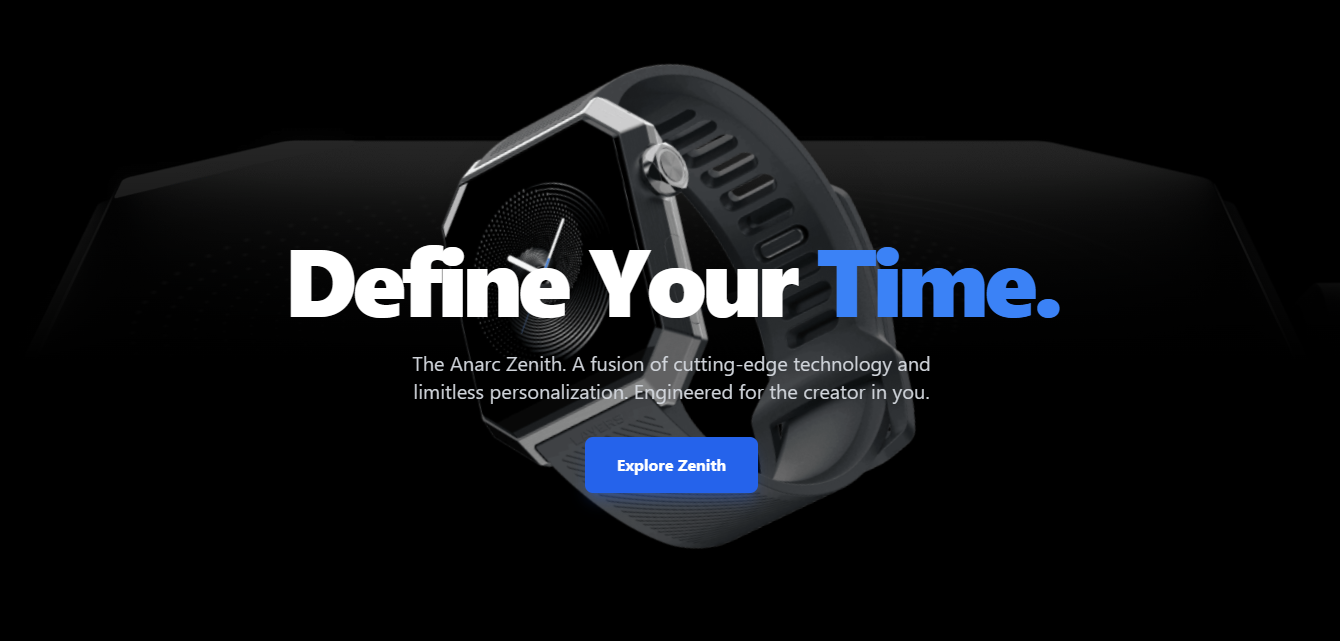
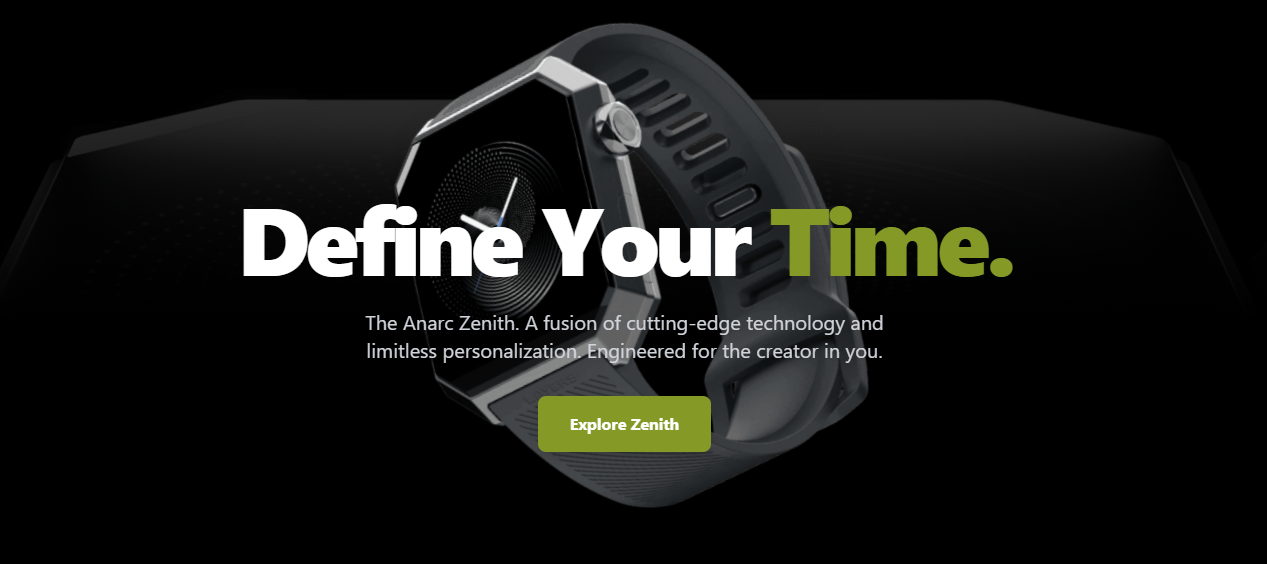
ss

Changed region(s): [[0.0308, 0.0301, 0.8927, 0.9043]]

diff --git a/README.md b/README.md
@@ -1,11 +1,7 @@
 
 # 🛍 Layers - A Modern E-Commerce Experience
 
-✨ **Submission for the Sheryians Coding School Hackathon (Phase 1)** ✨
-
-**Layers** is a modern, dynamic, and fully responsive e-commerce concept website built for an Indian startup brand. Inspired by the creative energy of **Tech Burner**, this project merges aesthetic appeal with seamless functionality, delivering an immersive user experience with smo
-
-oth animations, component-based structure, and full responsiveness.
+**Layers** is a modern, dynamic, and fully responsive e-commerce concept website built for an Indian startup brand. Inspired by the creative energy of **Tech Burner**, this project merges aesthetic appeal with seamless functionality, delivering an immersive user experience with smooth animations, component-based structure, and full responsiveness.
 
 <p align="center">
   <img src="https://img.shields.io/badge/React-20232A?style=for-the-badge&logo=react&logoColor=61DAFB" alt="React Badge"/>
@@ -17,7 +13,7 @@ oth animations, component-based structure, and full responsiveness.
 
 ## 🔗 Live & Demo Links
 
-- 🚀 **Live Website**: [layers-Reimagined](https://layers-reimagined-hackathon-sheryians.netlify.app/)  
+- 🚀 **Live Website**: [layers-Reimagined](https://anarc-watch-kappa.vercel.app/)  
 
 
 ---
@@ -25,7 +21,7 @@ oth animations, component-based structure, and full responsiveness.
 ## 🖼 Project Preview
 
 <p align="center">
-  <img src="https://github.com/Ravishetty07/Layers-Reimagined-Hackaton-Sheryians/blob/main/public/preview.png" alt="Project Preview" width="100%"/>
+  <img src="https://github.com/darksitecoder/anarc-watch/blob/master/public/preview.png" alt="Project Preview" width="100%"/>
 </p>
 
 
@@ -76,7 +72,7 @@ oth animations, component-based structure, and full responsiveness.
 
 ## ✅ Hackathon Checklist
 
-- [x] ✅ Brand Website Concept: *"Layers" for an Indian Startup*
+- [x] ✅ Brand Website Concept: *"ANARC" for an Indian Startup*
 - [x] ✅ 5 Mandatory Pages Built
 - [x] ✅ Fully Responsive UI
 - [x] ✅ React + Tailwind + Framer Motion
@@ -89,7 +85,7 @@ oth animations, component-based structure, and full responsiveness.
 
 ```bash
 # Clone the repository
-git clone https://github.com/Ravishetty07/layers-reimagined.git
+git clone https://github.com/darksitecoder/anarc-watch.git
 
 # Navigate into the project directory
 cd layers-reimagined
@@ -107,20 +103,12 @@ npm run dev
 
 ## 🧑💻 Author
 
-### 👋 Hi, I'm Ravi Shetty
+### 👋 Hi, I'm Sumit Pal
 
-Frontend Developer | Creative Coder | UI Enthusiast
+Frontend Developer | Project Manager | UI Enthusiast
 
-* 🌐 **Portfolio**: [ravishetty-portfolio.netlify.app](https://ravishetty-portfolio.netlify.app)
-* 💻 **GitHub**: [github.com/Ravishetty07](https://github.com/Ravishetty07)
-* 💼 **LinkedIn**: [linkedin.com/in/ravi-m-shetty](https://www.linkedin.com/in/ravi-m-shetty/)
-
----
-
-## 🙏 Acknowledgements
-
-> 💖 A huge **thank you to [Sheryians Coding School](https://sheryians.com/)** for organizing this hackathon and giving learners like me the platform to grow, build, and showcase our skills. This project helped me push boundaries in design, frontend development, and performance optimization. It was a truly enriching experience.
+* 🌐 **Portfolio**: [darksitecoder.netlify.app](https://darksitecoder.netlify.app/)
+* 💻 **GitHub**: [github.com/darksitecoder](https://github.com/darksitecoder)
+* 💼 **LinkedIn**: [linkedin.com/in/sumit-pal-darksitecoder](https://www.linkedin.com/in/sumit-pal-darksitecoder/)
 
 ---
-
-> ⚡ *Built with passion, React, and Tailwind by Ravi Shetty – Hackathon 2025*
